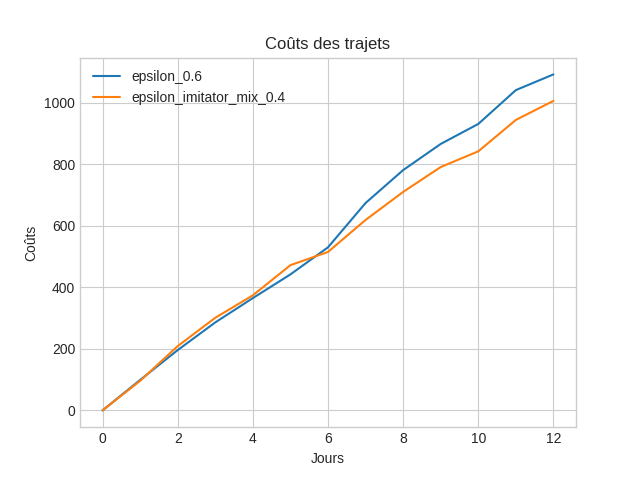
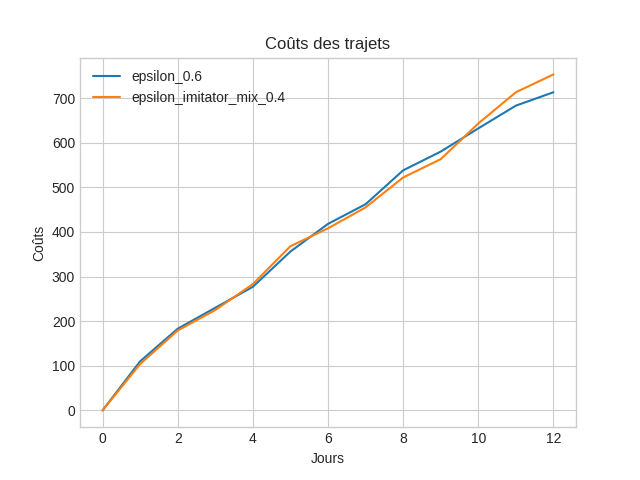
results of experimentations

diff --git a/src/strategies.py b/src/strategies.py
@@ -564,8 +564,11 @@ class AdversaryImitatorStrategy(Strategy):
         )
 
     def generate(self):
-        r = self.adversary_strategy.distrib_memory[-1]
-        return self.from_distribution(r)
+        if len(self.adversary_strategy.distrib_memory) == 0:
+            r = self._generate_random_distribution()
+        else:
+            r = self.adversary_strategy.distrib_memory[-1]
+        return self._generate(self.from_distribution(r))
 
 
 class EpsilonImitatorStrategy(Strategy):
@@ -727,7 +730,7 @@ class BetterAnswerLastAdversaryStrategy(Strategy):
         best = better_answer(r, self.nb_team_players)
         if best is None:
             best = []
-        return self.from_distribution(best)    
+        return self._generate(self.from_distribution(best))    
 
 
 class BestAnswerLastAdversaryStrategy(Strategy):
@@ -760,7 +763,7 @@ class BestAnswerLastAdversaryStrategy(Strategy):
         best = best_answer(r, self.nb_team_players)
         if best is None:
             best = []
-        return self.from_distribution(best)    
+        return self._generate(self.from_distribution(best))    
 
 
 class BestAnswerAdversaryStrategy(Strategy):
@@ -789,7 +792,7 @@ class BestAnswerAdversaryStrategy(Strategy):
         best = best_answer(self.current_best, self.nb_team_players)
         if best is None:
             best = self.current_best
-        return self.from_distribution(best)    
+        return self._generate(self.from_distribution(best))   
 
     def save_day_results(self, votes):
         super().save_day_results(votes)
@@ -826,7 +829,7 @@ class FicticiousPlayStrategy(Strategy):
                 dist_min=math.inf,
                 ):
         Strategy.__init__(self,
-                        'best_answer_adversary', 
+                        'ficticious_play', 
                         team_id, 
                         players_ids, 
                         nb_goals, 
@@ -839,7 +842,7 @@ class FicticiousPlayStrategy(Strategy):
     def generate(self):
         if len(self.adversary_strategy_counts) == 0:
             r = self._generate_random_distribution()
-            return self.from_distribution(r)
+            return self._generate(self.from_distribution(r))
         best = []
         score_max = 0
         for r in self.strategy_set:
@@ -851,7 +854,7 @@ class FicticiousPlayStrategy(Strategy):
             if score > score_max:
                 score_max = score
                 best = r
-        return self.from_distribution(best)
+        return self._generate(self.from_distribution(best))
 
     def save_day_results(self, votes):
         super().save_day_results(votes)
@@ -863,5 +866,5 @@ class FicticiousPlayStrategy(Strategy):
             self.adversary_strategy_counts[r] += 1
 
         n = len(self.distrib_memory)
-        for r in self.adversary_strategy:
+        for r in self.adversary_strategy_counts:
             self.adversary_strategy_probas[r] = self.adversary_strategy_counts[r] / n

diff --git a/src/main_semaine3.py b/src/main_semaine3.py
@@ -48,7 +48,8 @@ def init(_boardname=None):
     player = game.player
     
 
-def play(nb_iter, 
+def play(
+        nb_iter=100, 
         nb_days=10, 
         dist_min=12,
         strat1=strategies.RandomStrategy,
@@ -247,12 +248,32 @@ def play(nb_iter,
 
 
 if __name__ == '__main__':
-    play(
-        int(sys.argv[1]) if len(sys.argv) == 2 else 100,
-        12, 
-        np.inf, 
-        strategies.EpsilonStrategy, 
-        strategies.EpsilonImitatorMixStrategy,
-        {'eps': 0.6},
-        {'eps': 0.4}
-    )
+    strats = {
+        strategies.RandomStrategy: {},
+        strategies.StubbornStrategy1: {},
+        strategies.StubbornStrategy2: {},
+        strategies.NearStrategy: {},
+        strategies.FarStrategy: {},
+        strategies.EpsilonStrategy: {'eps':0.3},
+        strategies.EpsilonStrategy: {'eps':0.7},
+        strategies.AdversaryImitatorStrategy: {},
+        strategies.EpsilonImitatorStrategy: {'eps':0.3},
+        strategies.EpsilonImitatorMixStrategy: {'eps':0.4},
+        strategies.BetterAnswerLastAdversaryStrategy: {},
+        strategies.BestAnswerLastAdversaryStrategy: {},
+        strategies.BestAnswerAdversaryStrategy: {},
+        strategies.FicticiousPlayStrategy: {}
+    }
+
+    for strat1, args1 in strats.items():
+        for strat2, args2 in strats.items():
+
+            play(
+                100,
+                100, 
+                np.inf, 
+                strat1,
+                strat2,
+                args1,
+                args2
+            )
